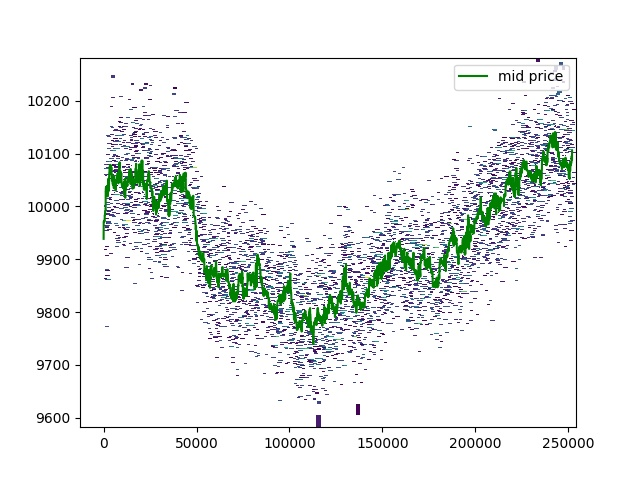
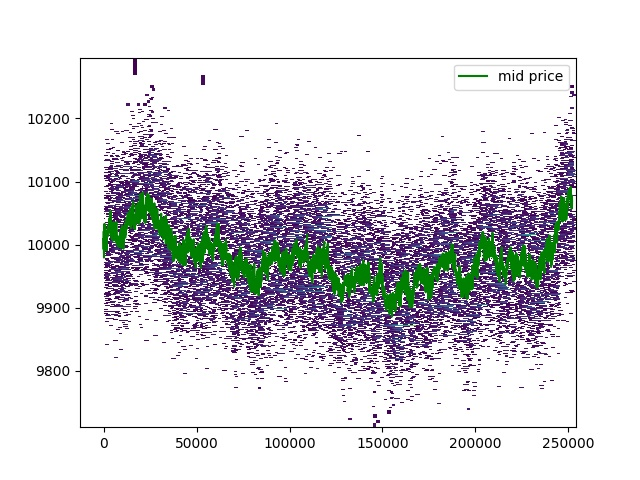
making comparison tool

diff --git a/mains/visualize_random.py b/mains/visualize_random.py
@@ -1,33 +1,44 @@
+from analysis.market_analyzer import MarketVisualizer
 from analysis.simulation_visualizer import VisualizeSimulation
+from market.simulator import RandomSimulator
+from market.exchange import Exchange
+from analysis.loss_function import compute_total_loss
+import pandas as pd
+import os
 
-if __name__ == "__main__":
-    from market.simulator import RandomSimulator
-    from market.exchange import Exchange
-    import os
+if not os.path.exists("../results/visualize_random/"):
+    os.mkdir("../results/visualize_random/")
 
-    if not os.path.exists("../results/visualize_random/"):
-        os.mkdir("../results/visualize_random/")
+exchange = Exchange()
+random_simulator = RandomSimulator(exchange, 100)
+random_simulator.run(1000, 10, 500, 1, 20)
+visualizer = VisualizeSimulation(random_simulator)
+visualizer.plot_order_book()
+visualizer.plot_save_and_show("../results/visualize_random/random_lbo_heatmap.jpg")
+del exchange
+del random_simulator
+del visualizer
 
-    exchange = Exchange()
-    random_simulator = RandomSimulator(exchange, 100)
-    random_simulator.run(1000, 10, 500, 5, 20)
-    visualizer = VisualizeSimulation(random_simulator)
-    visualizer.plot_order_book()
-    visualizer.plot_save_and_show("../results/visualize_random/random_lbo_heatmap.jpg")
-    del exchange
-    del random_simulator
-    del visualizer
 
-if __name__ == "__main__":
-    from market.simulator import RandomSimulator
-    from market.exchange import Exchange
+exchange = Exchange()
+random_simulator = RandomSimulator(exchange, 100)
+random_simulator.run(5000, 20, 500, 5, 20)
+visualizer = VisualizeSimulation(random_simulator)
+visualizer.plot_order_book()
+visualizer.plot_save_and_show("../results/visualize_random/random_lbo_heatmap_1000.jpg")
 
-    exchange = Exchange()
-    random_simulator = RandomSimulator(exchange, 100)
-    random_simulator.run(5000, 20, 500, 5, 20)
-    visualizer = VisualizeSimulation(random_simulator)
-    visualizer.plot_order_book()
-    visualizer.plot_save_and_show("../results/visualize_random/random_lbo_heatmap_1000.jpg")
-    del exchange
-    del random_simulator
-    del visualizer
+
+headers = ['Open', 'High', 'Low', 'Close']
+data = pd.read_csv('../data/spx/SPX_1min.txt', header=None, index_col=0, parse_dates=[0])
+data = data.drop(columns=[5])
+data.columns = headers
+real_market_visualizer = MarketVisualizer(data)
+
+simulated_market_visualizer = MarketVisualizer(random_simulator.last_mid_price_series.price, is_simulated=True)
+
+
+real_market_visualizer.compare_market(1, simulated_market_visualizer,
+                                      '../results/visualize_random/facts_comparison.jpg')
+
+total_loss = compute_total_loss(random_simulator.last_mid_price_series.price)
+print(f"Total Loss wrt SPX: {total_loss}")

diff --git a/analysis/loss_function.py b/analysis/loss_function.py
@@ -2,7 +2,7 @@ from sklearn.linear_model import LinearRegression
 import numpy as np
 import pandas as pd
 import matplotlib.pyplot as plt
-from analysis.market_analyzer import StylizedFacts
+from analysis.market_analyzer import StylizedFacts, MarketVisualizer
 from scipy.stats import wasserstein_distance
 
 
@@ -115,3 +115,54 @@ class LossAnalyzer:
         if save_name is not None:
             plt.savefig(save_name)
         plt.show()
+
+
+def compute_total_loss(price_series, name_simulator: str):
+    simulated_market_visualizer = MarketVisualizer(price_series, is_simulated=True)
+
+    headers = ['Open', 'High', 'Low', 'Close']
+    data = pd.read_csv('../data/spx/SPX_1min.txt', header=None, index_col=0, parse_dates=[0])
+    data = data.drop(columns=[5])
+    data.columns = headers
+    real_market_visualizer = MarketVisualizer(data)
+
+    rets_int = [1, 5, 15, 30, "1d"]
+    losses = []
+    t_losses = []
+    for ret in rets_int:
+
+        if ret == '1d':
+            loss = LossFunction(real_market_visualizer.market_analyzer.get_daily_market_metrics(),
+                                simulated_market_visualizer.market_analyzer.get_daily_market_metrics())
+        else:
+            loss = LossFunction(real_market_visualizer.market_analyzer.get_market_metrics(ret),
+                                simulated_market_visualizer.market_analyzer.get_market_metrics(ret))
+        loss.compute_loss()
+        losses += [loss]
+        t_losses += [loss.total_loss]
+
+    correlation_loss = mean_absolute_error(real_market_visualizer.market_analyzer.get_close_auto_correlation(),
+                                           simulated_market_visualizer.market_analyzer.get_close_auto_correlation())
+
+    rets_int += ['close']
+    t_losses += [correlation_loss]
+
+    total_loss = aggregate_losses(losses)
+
+    final_loss = correlation_loss + total_loss["total_loss"] * 5
+    labels = ["$l_{" + str(x) + "}$" for x in rets_int]
+    labels += ["$\\frac{L}{6}$"]
+    t_losses += [final_loss / 6]
+    colors = ['blue', 'green', 'orange', 'purple', 'red', 'brown', 'yellow']
+
+    plt.barh(list(range(len(t_losses))), t_losses, tick_label=labels, color=colors)
+    plt.title(f'Losses per Time Horizons for {name_simulator}')
+    plt.xlabel('Loss')
+    plt.grid(True)
+    plt.show()
+
+    return final_loss
+
+
+def mean_absolute_error(target, simulated):
+    return (np.abs(target - simulated)).mean()

diff --git a/mains/compare_losses.py b/mains/compare_losses.py
@@ -1,0 +1,69 @@
+import os
+import pandas as pd
+import numpy as np
+from numpy.random import RandomState
+from analysis.market_analyzer import MarketVisualizer
+from analysis.loss_function import compute_total_loss
+from market.exchange import Exchange
+from market.simulator import RandomSimulator
+from analysis.simulation_visualizer import VisualizeSimulation
+
+if not os.path.exists("../results/compare_losses/"):
+    os.mkdir("../results/compare_losses/")
+
+headers = ['Open', 'High', 'Low', 'Close']
+data = pd.read_csv('../data/spx/SPX_1min.txt', header=None, index_col=0, parse_dates=[0])
+data = data.drop(columns=[5])
+data.columns = headers
+real_market_visualizer = MarketVisualizer(data)
+
+# GBM
+
+
+list_rets = [1, 5, 15, 30, 390]
+
+n_series = 1
+n_steps = 200000
+T = 10000
+vol = 0.2
+trend = - 0.5 * vol ** 2
+random_seed = 100
+starting_price = 10000
+save = True
+show_samples = False
+
+random_state = RandomState(random_seed)
+gauss = random_state.normal(size=(n_steps, n_series))
+gbm = np.exp(trend / T + np.sqrt(1 / T) * vol * gauss)
+gbm = starting_price * gbm.cumprod(axis=0)
+
+simulated_market_visualizer = MarketVisualizer(gbm[:, 0], is_simulated=True)
+real_market_visualizer.compare_market("1d", simulated_market_visualizer,
+                                      '../results/compare_losses/GBM_stats.jpg')
+
+total_loss = compute_total_loss(gbm[:, 0], "GBM")
+print(f"Total Loss wrt SPX: {total_loss}")
+
+# Random Simulator
+
+exchange = Exchange()
+random_simulator = RandomSimulator(exchange, 100)
+random_simulator.run(200000, 20, 500, 5, 20)
+
+# visualizer = VisualizeSimulation(random_simulator)
+# visualizer.plot_order_book()
+# visualizer.plot_save_and_show("../results/compare_losses/random_lbo.jpg")
+
+simulated_market_visualizer = MarketVisualizer(random_simulator.last_mid_price_series.price, is_simulated=True)
+
+real_market_visualizer.compare_market('1d', simulated_market_visualizer,
+                                      '../results/compare_losses/RandomSimulator_stats.jpg')
+
+total_loss = compute_total_loss(random_simulator.last_mid_price_series.price, "RandomSimulator")
+print(f"Total Loss wrt SPX: {total_loss}")
+
+# Exponential Simulator
+
+# FCN Simulator
+
+# FCN Gamma Simulator

diff --git a/mains/paper_1_replication.py b/mains/paper_1_replication.py
@@ -1,16 +1,38 @@
+import numpy as np
+
+from analysis.market_analyzer import MarketVisualizer
 from analysis.simulation_visualizer import VisualizeSimulation
 from market.exchange import Exchange
 from market.simulator import SimulatorPaper1
+import pandas as pd
+import os
 
-if __name__ == "__main__":
-    import os
+if not os.path.exists("../results/paper_1_replication/"):
+    os.mkdir("../results/paper_1_replication/")
 
-    if not os.path.exists("../results/paper_1_replication/"):
-        os.mkdir("../results/paper_1_replication/")
+exchange = Exchange()
+simulator_paper_1 = SimulatorPaper1(exchange, 10000, 10000, 10000000, 1000)
+simulator_paper_1.run(25200 * 10, 600, 5, 0.005, 1, 2000)
+visualizer = VisualizeSimulation(simulator_paper_1)
+visualizer.plot_order_book()
+visualizer.plot_save_and_show("../results/paper_1_replication/paper1_lbo_heatmap.jpg")
 
-    exchange = Exchange()
-    simulator_paper_1 = SimulatorPaper1(exchange, 10000, 10000, 10000000, 1000)
-    simulator_paper_1.run(25200 * 10, 600, 20, 0.005, 1, 2000)
-    visualizer = VisualizeSimulation(simulator_paper_1)
-    visualizer.plot_order_book()
-    visualizer.plot_save_and_show("../results/paper_1_replication/paper1_lbo_heatmap.jpg")
+
+headers = ['Open', 'High', 'Low', 'Close']
+data = pd.read_csv('../data/spx/SPX_1min.txt', header=None, index_col=0, parse_dates=[0])
+data = data.drop(columns=[5])
+data.columns = headers
+real_market_visualizer = MarketVisualizer(data)
+
+price_df = pd.Series(simulator_paper_1.mid_price_series.price, index=simulator_paper_1.mid_price_series.time_step)
+long_price_df = pd.Series(index=np.arange(0, simulator_paper_1.mid_price_series.time_step[-1] + 1), dtype=np.float64)
+long_price_df.loc[price_df.index] = price_df.values
+long_price_df = long_price_df.ffill().dropna()
+minute_price_df = long_price_df.loc[::60]
+
+simulated_market_visualizer = MarketVisualizer(minute_price_df.values, is_simulated=True)
+
+real_market_visualizer.compare_market(1, simulated_market_visualizer,
+                                      '../results/paper_1_replication/facts_comparison.jpg')
+
+

diff --git a/analysis/market_analyzer.py b/analysis/market_analyzer.py
@@ -452,11 +452,11 @@ class MarketVisualizer(MarketVisualizerAbstract):
         ax5.legend(fontsize=8)
         loss = LossFunction(stylized_facts, other_stylized_facts)
         loss.compute_loss()
-        labels = ['$l^{ac}$', '$l^{vc}$', '$l^{le}$', '$l^{ft}$']
-        colors = ['blue', 'red', 'green', 'orange']
+        labels = ['$l^{ac}$', '$l^{vc}$', '$l^{le}$', '$l^{ft}$', '$l^{mean}$']
+        colors = ['blue', 'red', 'green', 'orange', 'purple']
         values = [loss.auto_correlation_loss, loss.volatility_clustering_loss, loss.leverage_effect_loss,
-                  loss.distribution_loss]
-        ax6.barh(list(range(4)), values, tick_label=labels, color=colors)
+                  loss.distribution_loss, loss.total_loss]
+        ax6.barh(list(range(5)), values, tick_label=labels, color=colors)
         ax6.set_title("Losses", size=10)
         ax6.grid(True)
         plt.subplots_adjust(hspace=0.70, wspace=1)
@@ -464,7 +464,6 @@ class MarketVisualizer(MarketVisualizerAbstract):
         if save_name is not None:
             plt.savefig(save_name)
         plt.show()
-
 
     def visualize_close_auto_correlation(self, save_name: Union[str, None] = None):
         target_close_correlation = self.market_analyzer.get_close_auto_correlation()
@@ -475,6 +474,7 @@ class MarketVisualizer(MarketVisualizerAbstract):
         plt.title('Close Correlation')
         plt.ylabel('Correlation')
         plt.xticks(ticks, labels)
+        plt.grid(True)
         if save_name is not None:
             plt.savefig(save_name)
         plt.show()

diff --git a/mains/compute_benchmark_gbm_loss.py b/mains/compute_benchmark_gbm_loss.py
@@ -1,6 +1,6 @@
 from analysis.market_analyzer import MarketVisualizer, SimulatedMarketAnalyzer, MarketDataAnalyzer, \
     compare_stylized_facts
-from analysis.loss_function import LossFunction
+from analysis.loss_function import LossFunction, compute_total_loss
 import numpy as np
 from numpy.random import RandomState
 import pandas as pd
@@ -31,19 +31,22 @@ show_samples = False
 
 random_state = RandomState(random_seed)
 gauss = random_state.normal(size=(n_steps, n_series))
-gmb = np.exp(trend / T + np.sqrt(1 / T) * vol * gauss)
-gmb = starting_price * gmb.cumprod(axis=0)
+gbm = np.exp(trend / T + np.sqrt(1 / T) * vol * gauss)
+gbm = starting_price * gbm.cumprod(axis=0)
 
-simulated_market_visualizer = MarketVisualizer(gmb[:, 0], is_simulated=True)
+simulated_market_visualizer = MarketVisualizer(gbm[:, 0], is_simulated=True)
 # simulated_market_visualizer.visualize_market(1, '../results/compute_benchmark_gbm_loss/gbm_stylized_1m.jpg')
 # simulated_market_visualizer.visualize_market(30, '../results/compute_benchmark_gbm_loss/gbm_stylized_30m.jpg')
 
 real_market_visualizer.compare_market(1, simulated_market_visualizer,
                                       '../results/compute_benchmark_gbm_loss/gbm_loss.jpg')
 
+total_loss = compute_total_loss(gbm[:, 0], "GBM")
+print(f"Total Loss wrt SPX: {total_loss}")
+
 time_series = []
 for i in tqdm(range(n_series)):
-    series = pd.Series(gmb[:, i], name='Close')
+    series = pd.Series(gbm[:, i], name='Close')
     time_series += [SimulatedMarketAnalyzer(series)]
 
 stylized_facts = {}

diff --git a/market/simulator.py b/market/simulator.py
@@ -60,7 +60,7 @@ class RandomSimulator(Simulator):
         offset = rand_state.normal(0, vol, size=size_matrix)
         multiplier = np.exp(offset + vol_adjustment + mu)
         orders_to_cancel = {}
-        for i in range(n_steps):
+        for i in tqdm(range(n_steps)):
             if i % snapshot_interval == 0 and i > 0:
                 self.save_market_snapshot(i)
 
@@ -137,7 +137,7 @@ class SimulatorFCN(Simulator):
         agents_volume = rand_state.randint(1, 5, size=size_matrix)
         agents_buy_outcome = rand_state.uniform(size=size_matrix)
         orders_to_cancel = {}
-        for i in range(n_steps):
+        for i in tqdm(range(n_steps)):
             if i % snapshot_interval == 0 and i > 0:
                 self.save_market_snapshot(i)
 
